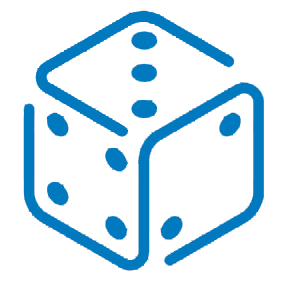
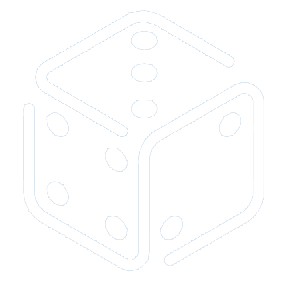
add styles and CSSTransition to BrowseDropdown

diff --git a/src/Components/Navigation/BrowseDropdown/BrowseDropdown.js b/src/Components/Navigation/BrowseDropdown/BrowseDropdown.js
@@ -1,7 +1,10 @@
 import React, { Component } from 'react';
-// import classes from './BrowesDropdown.module.scss';
 import NavItem from '../NavItem/NavItem';
 import onClickOutside from 'react-onclickoutside';
+import classes from './BrowserDropdown.module.scss';
+import smallArrow from '../../../images/arrow_down_small.png';
+import { CSSTransition } from 'react-transition-group';
+import './transition.css';
 
 export class BrowseDropdown extends Component {
   state = {
@@ -19,27 +22,40 @@ export class BrowseDropdown extends Component {
   render() {
     const browesCategories = ['Category', 'Mechanics', 'Player Count', 'Year'];
 
-    const dropDownItems = this.state.dropDownIsVisible ? (
-      <ul>
-        {browesCategories.map((category, index) => {
-          return (
-            <NavItem
-              to={category.toLowerCase().replace(' ', '-')}
-              categoryName={category}
-              click={this.toggleDropdown}
-              key={index}
-            />
-          );
-        })}
-      </ul>
-    ) : null;
-
     return (
-      <div data-test="component-browse-dropdown">
-        <div data-test="browse-dropdown" onClick={this.toggleDropdown}>
-          Browes Games
+      <div
+        data-test="component-browse-dropdown"
+        className={this.state.dropDownIsVisible ? classes.selected : null}
+      >
+        <div
+          data-test="browse-dropdown"
+          onClick={this.toggleDropdown}
+          className={classes.Container}
+        >
+          <div className={classes.Title}>Browes Games</div>
+          <img className={classes.Arrow} src={smallArrow} />
         </div>
-        {dropDownItems}
+
+        <CSSTransition
+          in={this.state.dropDownIsVisible}
+          timeout={400}
+          classNames="transition"
+          unmountOnExit
+        >
+          <ul className={classes.DropdownItems}>
+            {browesCategories.map((category, index) => {
+              return (
+                <li key={index}>
+                  <NavItem
+                    to={category.toLowerCase().replace(' ', '-')}
+                    categoryName={category}
+                    click={this.toggleDropdown}
+                  />
+                </li>
+              );
+            })}
+          </ul>
+        </CSSTransition>
       </div>
     );
   }

diff --git a/src/Components/Navigation/MainNavBar/MainNavBar.js b/src/Components/Navigation/MainNavBar/MainNavBar.js
@@ -1,14 +1,23 @@
 import React, { Component } from 'react';
 import classes from './MainNavBar.module.scss';
-import diceLogo from '../../../images/dice.jpg';
+import diceLogo from '../../../images/dice.png';
 import BrowseDropdown from '../BrowseDropdown/BrowseDropdown';
 
 class MainNavBar extends Component {
   render() {
     return (
       <div data-test="component-main-nav" className={classes.NavBar}>
-        <img data-test="logo-main" className={classes.logo} src={diceLogo} />
-        <BrowseDropdown />
+        <div className={classes.Container}>
+          <img
+            data-test="logo-main"
+            className={classes.Logo}
+            src={diceLogo}
+            alt=""
+          />
+          <div className={classes.Navigation}>
+            <BrowseDropdown />
+          </div>
+        </div>
       </div>
     );
   }

diff --git a/src/Components/Navigation/BrowseDropdown/BrowseDropdown.test.js b/src/Components/Navigation/BrowseDropdown/BrowseDropdown.test.js
@@ -6,6 +6,9 @@ import { BrowserRouter } from 'react-router-dom';
 import EnhancedBrowseDropdown, { BrowseDropdown } from './BrowseDropdown';
 import NavItem from '../NavItem/NavItem';
 
+import { config } from 'react-transition-group';
+config.disabled = true;
+
 const setup = () => {
   return mount(
     <BrowserRouter>
@@ -41,12 +44,14 @@ describe('BrowesDropdown', () => {
     test('removes list when BrowesDropdown is clicked', () => {
       const dropdown = findByTestAttr(wrapper, 'browse-dropdown');
       dropdown.simulate('click');
+
       expect(wrapper.find(NavItem).length).toBe(0);
     });
 
     test('removes list when list item is clicked', () => {
       const listItem = wrapper.find(NavItem).at(0);
       listItem.simulate('click');
+
       expect(wrapper.find(NavItem).length).toBe(0);
     });
   });

diff --git a/src/App.css b/src/App.css
@@ -1,38 +1,5 @@
+@import url('https://fonts.googleapis.com/css2?family=Roboto&display=swap');
+
 .App {
-  text-align: center;
-}
-
-.App-logo {
-  height: 40vmin;
-  pointer-events: none;
-}
-
-@media (prefers-reduced-motion: no-preference) {
-  .App-logo {
-    animation: App-logo-spin infinite 20s linear;
-  }
-}
-
-.App-header {
-  background-color: #282c34;
-  min-height: 100vh;
-  display: flex;
-  flex-direction: column;
-  align-items: center;
-  justify-content: center;
-  font-size: calc(10px + 2vmin);
-  color: white;
-}
-
-.App-link {
-  color: #61dafb;
-}
-
-@keyframes App-logo-spin {
-  from {
-    transform: rotate(0deg);
-  }
-  to {
-    transform: rotate(360deg);
-  }
+  font-family: 'Roboto', sans-serif;
 }

diff --git a/src/Components/Navigation/BrowseDropdown/BrowserDropdown.module.scss b/src/Components/Navigation/BrowseDropdown/BrowserDropdown.module.scss
@@ -1,0 +1,34 @@
+.Container {
+  position: relative;
+  display: flex;
+  cursor: pointer;
+  padding: 0.5rem;
+}
+
+.selected {
+  background: linear-gradient(transparent, rgb(24, 136, 136));
+}
+
+.Title {
+  color: white;
+  font-weight: 600;
+}
+
+.DropdownItems {
+  position: absolute;
+  list-style: none;
+  padding: 0.5em 1em 0.5em 0.5em;
+  margin: 0.5em 0;
+  background-color: rgb(19, 94, 94);
+  border: 1px solid rgb(147, 214, 214);
+  border-radius: 0.2rem;
+
+  li + li {
+    margin-top: 0.2em;
+  }
+}
+
+.Arrow {
+  margin-left: 0.5em;
+  height: 1rem;
+}

diff --git a/src/Components/Navigation/MainNavBar/MainNavBar.module.scss b/src/Components/Navigation/MainNavBar/MainNavBar.module.scss
@@ -7,5 +7,25 @@
 @media (min-width: $media_computer_small) {
   .NavBar {
     display: block;
+    height: 4rem;
+    background-color: rgb(10, 161, 161);
+  }
+
+  .Container {
+    display: flex;
+    align-items: center;
+    justify-content: space-between;
+    height: 100%;
+    width: 80vw;
+    max-width: 1100px;
+    margin: auto;
+  }
+
+  .Logo {
+    height: 90%;
+  }
+
+  .Navigation {
+    justify-self: flex-end;
   }
 }

diff --git a/src/Components/Navigation/NavItem/NavItem.js b/src/Components/Navigation/NavItem/NavItem.js
@@ -1,9 +1,10 @@
 import React from 'react';
 import { Link } from 'react-router-dom';
+import classes from './NavItem.module.scss';
 
 const NavItem = (props) => {
   return (
-    <Link to={`/${props.to}`} onClick={props.click}>
+    <Link to={`/${props.to}`} onClick={props.click} className={classes.Link}>
       {props.categoryName}
     </Link>
   );

diff --git a/src/Components/Navigation/BrowseDropdown/transition.css b/src/Components/Navigation/BrowseDropdown/transition.css
@@ -1,0 +1,14 @@
+.transition-enter {
+  opacity: 0;
+}
+.transition-enter-active {
+  opacity: 1;
+  transition: opacity 200ms;
+}
+.transition-exit {
+  opacity: 1;
+}
+.transition-exit-active {
+  opacity: 0;
+  transition: opacity 200ms;
+}

diff --git a/src/App.js b/src/App.js
@@ -1,5 +1,4 @@
 import React from 'react';
-import logo from './logo.svg';
 import './App.css';
 import MainNavBar from './Components/Navigation/MainNavBar/MainNavBar';
 import { BrowserRouter } from 'react-router-dom';

diff --git a/src/Components/Navigation/NavItem/NavItem.module.scss b/src/Components/Navigation/NavItem/NavItem.module.scss
@@ -1,0 +1,4 @@
+.Link {
+  text-decoration: none;
+  color: white;
+}
